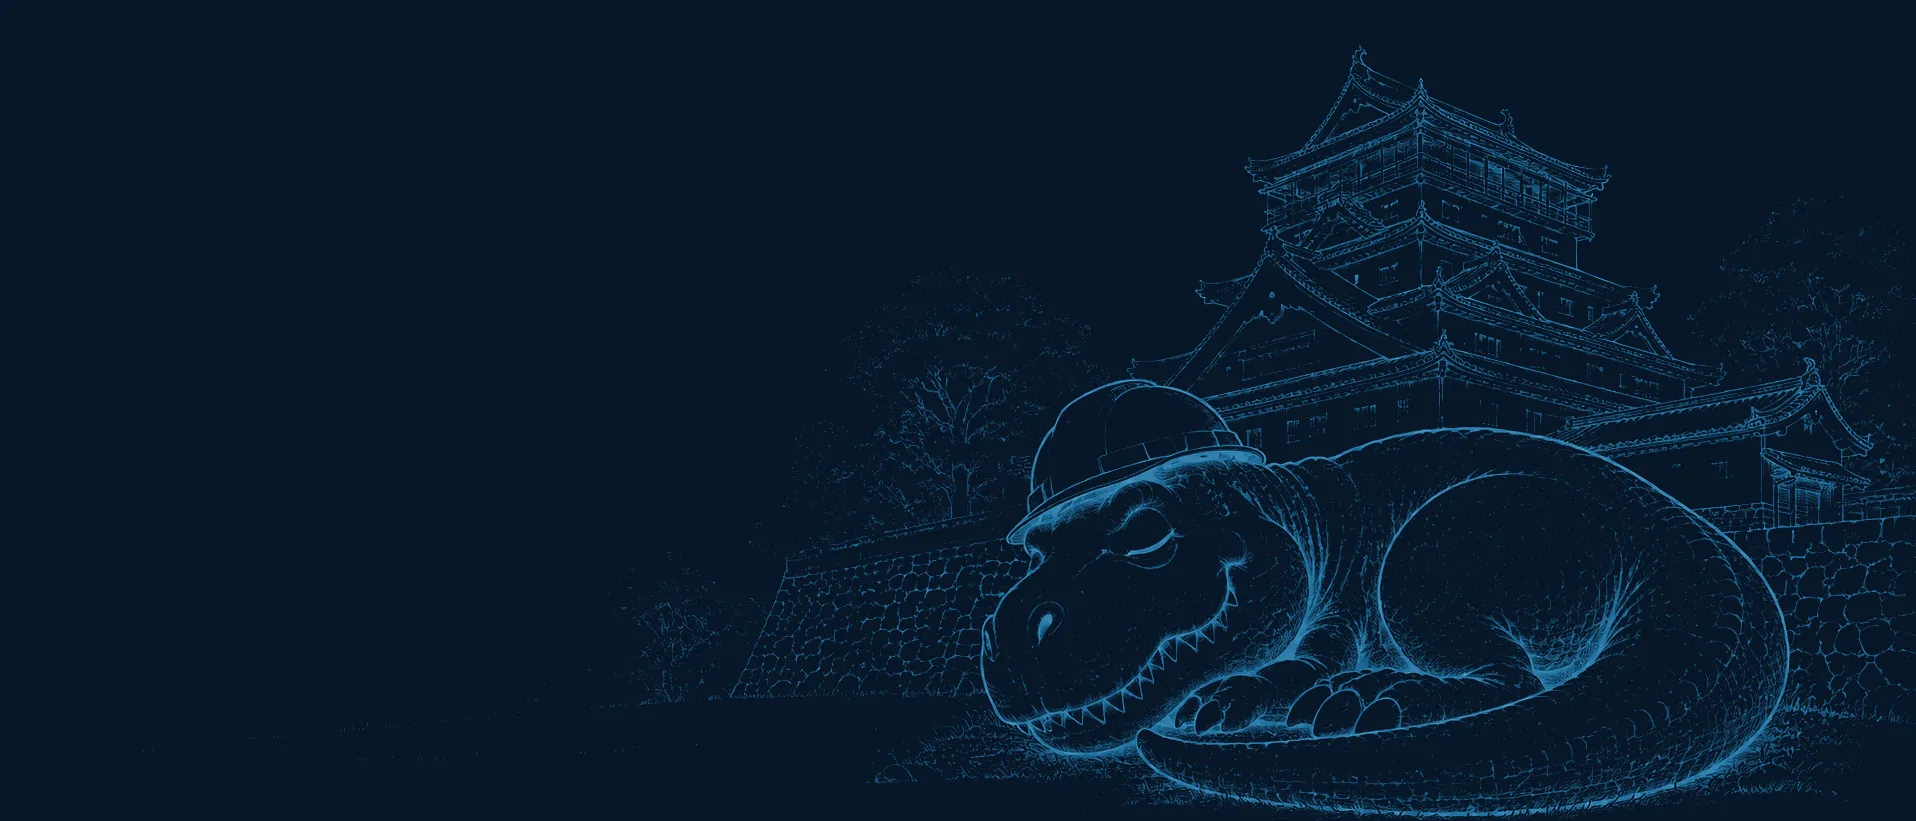
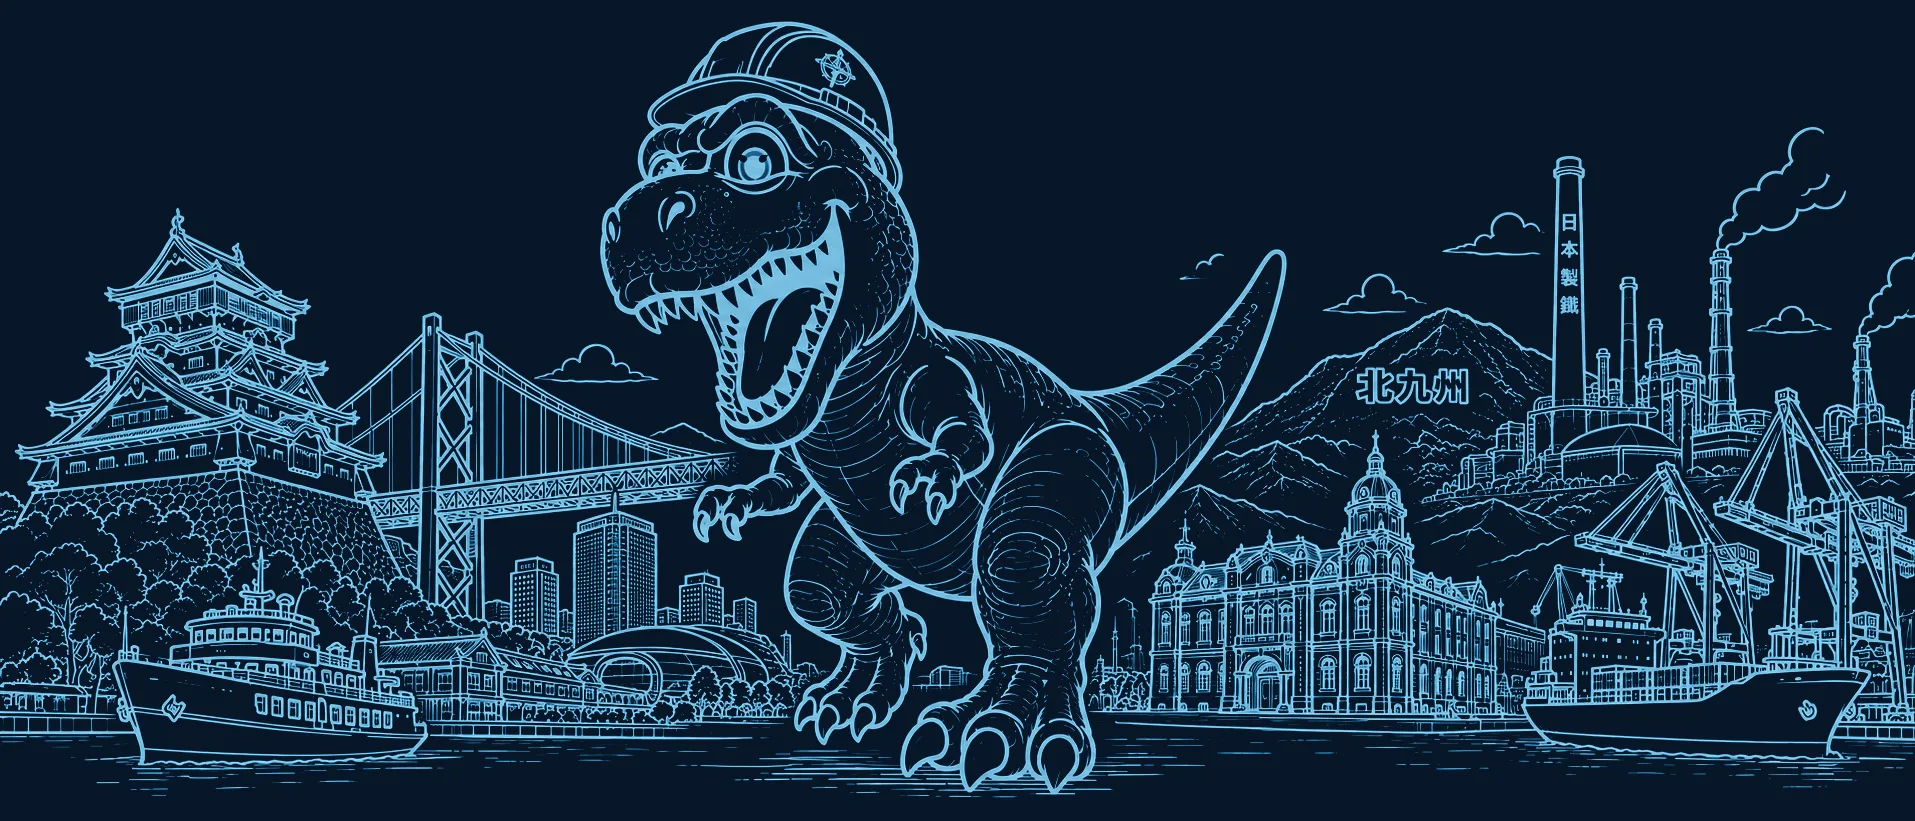
お問い合わせヒーローを新画像に差し替え・見切れ防止のcontain配置を追加
- SubHeroに bgFit="contain" オプションを追加(全体表示・右寄せ、
  余白は同色の紺に自然に溶ける)
- heroBgに background-repeat:no-repeat を追加(タイル繰り返しを修正)
- 新画像を共通のデュオトーン加工で適用

Claude-Session: https://claude.ai/code/session_01GWny94VMMAQhumgKVy1F5g

diff --git a/app/components/SubpageShell.tsx b/app/components/SubpageShell.tsx
@@ -22,9 +22,9 @@ export function SubHeader({ active }: { active?: string }) {
   </header>;
 }
 
-export function SubHero({ en, ja, lead, bg, children }: { en:string; ja:ReactNode; lead:ReactNode; bg?:string; children?:ReactNode }) {
+export function SubHero({ en, ja, lead, bg, bgFit, children }: { en:string; ja:ReactNode; lead:ReactNode; bg?:string; bgFit?:"cover"|"contain"; children?:ReactNode }) {
   return <section className={styles.hero}>
-    {bg && <i className={styles.heroBg} style={{ backgroundImage: `url(${process.env.NEXT_PUBLIC_BASE_PATH || ""}${bg})` }} aria-hidden="true" />}
+    {bg && <i className={styles.heroBg} style={{ backgroundImage: `url(${process.env.NEXT_PUBLIC_BASE_PATH || ""}${bg})`, ...(bgFit === "contain" ? { backgroundSize: "contain", backgroundPosition: "center right" } : {}) }} aria-hidden="true" />}
     <div><p>{en}</p><h1>{ja}</h1><span>{lead}</span></div><b aria-hidden="true">T-REX</b>{children}</section>;
 }
 

diff --git a/app/components/subpage.module.css b/app/components/subpage.module.css
@@ -1,3 +1,3 @@
 .header{position:sticky;z-index:50;top:0;height:82px;padding:0 clamp(20px,4vw,62px);display:flex;align-items:center;gap:36px;border-bottom:1px solid rgba(151,180,201,.2);background:rgba(2,9,20,.94);backdrop-filter:blur(14px);color:#f4f6f7}.brand{display:flex;align-items:center;gap:12px;min-width:190px}.brand span{display:grid;line-height:1}.brand strong{font-size:18px;letter-spacing:.08em}.brand small{margin-top:7px;color:#91a5b8;font-size:8px;letter-spacing:.22em}.header nav{margin-left:auto;display:flex;gap:clamp(16px,2.2vw,34px);font-size:13px;font-weight:700}.header nav a{position:relative;padding:31px 0}.header nav a:after{content:"";position:absolute;left:0;right:100%;bottom:21px;height:1px;background:#2bc9f4;transition:.25s}.header nav a:hover:after,.header nav .active:after{right:0}.cta{padding:13px 22px;border-radius:999px;background:#f4f6f7;color:#03101f;font-size:13px;font-weight:800}.hero{position:relative;isolation:isolate;min-height:460px;padding:128px clamp(22px,7vw,110px) 84px;display:flex;align-items:flex-end;overflow:hidden;color:#f4f6f7;background:radial-gradient(circle at 80% 10%,rgba(0,174,234,.32),transparent 46%),radial-gradient(circle at 8% 100%,rgba(0,122,192,.22),transparent 42%),linear-gradient(180deg,rgba(2,10,22,.84),rgba(2,8,18,.95)),url('/hero-blue-particles.webp') center 30%/cover no-repeat,#020812}.hero::before{content:"";position:absolute;inset:0;z-index:1;pointer-events:none;background:repeating-linear-gradient(0deg,rgba(127,166,194,.075) 0 1px,transparent 1px 44px),repeating-linear-gradient(90deg,rgba(127,166,194,.075) 0 1px,transparent 1px 44px),linear-gradient(115deg,transparent 0 54%,rgba(0,174,234,.16) 54.2% 54.5%,transparent 54.7%),linear-gradient(115deg,transparent 0 71%,rgba(255,255,255,.11) 71.2% 71.4%,transparent 71.6%);mask-image:linear-gradient(180deg,#000 58%,rgba(0,0,0,.25));-webkit-mask-image:linear-gradient(180deg,#000 58%,rgba(0,0,0,.25))}.hero::after{content:"";position:absolute;inset:auto 0 0;z-index:1;height:2px;background:linear-gradient(90deg,#00aeea,#68dcff 30%,rgba(255,138,36,.9) 56%,transparent 88%)}.hero>div{position:relative;z-index:2}.hero p{display:flex;align-items:center;gap:10px;margin:0 0 18px;color:#42d1f7;font-size:11px;font-weight:800;letter-spacing:.26em}.hero p::before{content:"";width:26px;height:1px;background:currentColor;box-shadow:0 0 10px rgba(0,174,234,.8)}.hero h1{margin:0;font-size:clamp(50px,7.2vw,104px);line-height:1.02;letter-spacing:-.045em;text-shadow:0 8px 44px rgba(0,0,0,.6),0 0 60px rgba(0,174,234,.18)}.hero span{display:block;max-width:640px;margin-top:22px;color:#c3d1db;line-height:2}.hero>b{position:absolute;right:-2vw;bottom:-3vw;z-index:1;color:transparent;-webkit-text-stroke:1px rgba(95,205,238,.28);font-size:clamp(120px,23vw,340px);line-height:.8;letter-spacing:-.08em;filter:drop-shadow(0 0 30px rgba(0,174,234,.2))}.section{padding:clamp(76px,9vw,138px) clamp(22px,6vw,92px);color:#edf3f6;background:#03101f}.light{color:#071420;background:#edf0ef}.heading p{margin:0 0 12px;color:#28c8f3;font-size:11px;font-weight:800;letter-spacing:.2em}.heading h2{margin:0;font-size:clamp(34px,5vw,68px);line-height:1.12}.heading span{display:block;margin-top:18px;color:#8295a5;line-height:1.9}.grid{margin-top:52px;display:grid;grid-template-columns:repeat(2,minmax(0,1fr));gap:1px;background:rgba(139,174,199,.3);border:1px solid rgba(139,174,199,.3)}.card{min-height:280px;padding:34px;background:#08223a}.card small{color:#43cef4;font-weight:800;letter-spacing:.12em}.card h3{margin:18px 0 12px;font-size:clamp(22px,2.4vw,34px)}.card p{margin:0;color:#aebec9;line-height:1.95}.button{display:inline-flex;margin-top:30px;padding:15px 24px;border:1px solid #45c9ee;color:#45c9ee;font-weight:800}.footer{padding:38px clamp(22px,5vw,76px);display:grid;grid-template-columns:auto 1fr auto;align-items:center;gap:32px;border-top:1px solid rgba(151,180,201,.2);background:#020812;color:#f4f6f7}.footer>div{display:flex;justify-content:center;flex-wrap:wrap;gap:20px;color:#9baab5;font-size:12px}.footer small{color:#70818e;font-size:10px}@media(max-width:1050px){.header nav{display:none}}@media(max-width:720px){.header{height:68px;padding:0 16px}.brand{min-width:auto}.brand span{display:none}.cta{padding:11px 15px;font-size:11px}.hero{min-height:300px;padding:64px 20px 46px}.hero p{margin-bottom:12px;font-size:10px;letter-spacing:.2em}.hero h1{font-size:clamp(34px,10.5vw,44px);letter-spacing:-.03em}.hero span{margin-top:16px;font-size:14px;line-height:1.85}.hero>b{font-size:clamp(88px,27vw,124px);right:-5vw;bottom:-2vw}.grid{grid-template-columns:1fr}.footer{grid-template-columns:1fr;text-align:center}.footer .brand{justify-self:center}.footer>div{order:3}.footer small{order:2}}
 
-.heroBg{position:absolute;inset:0;z-index:0;background-size:cover;background-position:center;font-style:normal}.heroBg::after{content:"";position:absolute;inset:0;background:linear-gradient(180deg,rgba(2,10,22,.5),rgba(2,8,18,.86))}
+.heroBg{position:absolute;inset:0;z-index:0;background-size:cover;background-position:center;background-repeat:no-repeat;font-style:normal}.heroBg::after{content:"";position:absolute;inset:0;background:linear-gradient(180deg,rgba(2,10,22,.5),rgba(2,8,18,.86))}

diff --git a/app/contact/page.tsx b/app/contact/page.tsx
@@ -1,2 +1,2 @@
 "use client";import {FormEvent} from "react";import Image from "next/image";import {SubFooter,SubHeader,SubHero,styles} from "../components/SubpageShell";import s from "./contact.module.css";
-export default function Page(){const submit=(e:FormEvent<HTMLFormElement>)=>{e.preventDefault();const d=new FormData(e.currentTarget);const subject=encodeURIComponent(`Webサイトからのお問い合わせ：${d.get("subject")||"ご相談"}`);const body=encodeURIComponent([`お名前：${d.get("name")||""}`,`会社名：${d.get("company")||""}`,`電話番号：${d.get("phone")||""}`,`メール：${d.get("email")||""}`,"",String(d.get("message")||"")].join("\n"));location.href=`mailto:[email redacted]?subject=${subject}&body=${body}`};return <><SubHeader active="/contact"/><main><SubHero en="CONTACT / GET IN TOUCH" ja="お問い合わせ" lead="修理・施工・出張対応など、現場のことならお気軽にご相談ください。" bg="/contact-hero-bg.webp"/><section className={styles.section}><div className={s.layout}><aside><p>DIRECT CONTACT</p><h2>お急ぎの方は<br/>お電話ください。</h2><a href="tel:[phone redacted]"><Image src="/icons/phone.svg" alt="" width={32} height={32}/><span><small>営業時間 9:00〜18:00</small><strong>[phone redacted]</strong></span></a><a href="mailto:[email redacted]"><Image src="/icons/mail.svg" alt="" width={28} height={28}/>[email redacted]</a></aside><form onSubmit={submit}><label>お名前 <b>必須</b><input name="name" required/></label><label>会社名<input name="company"/></label><label>電話番号<input name="phone" type="tel"/></label><label>メールアドレス <b>必須</b><input name="email" type="email" required/></label><label>ご相談内容<select name="subject"><option>修理・施工のご相談</option><option>出張対応について</option><option>持込修理について</option><option>採用について</option><option>その他</option></select></label><label>お問い合わせ内容 <b>必須</b><textarea name="message" rows={7} required/></label><button>メール内容を確認する →</button></form></div></section><section className={styles.section}><div className={styles.heading}><p>FAQ</p><h2>よくあるご質問</h2></div><dl className={s.faq}><div><dt>出張対応エリアはどこまでですか?</dt><dd>福岡県・山口県を中心に対応しています。その他の地域も可能な限り対応しますので、まずはお気軽にご相談ください。</dd></div><div><dt>車両や機械の持込修理はできますか?</dt><dd>可能です。持込修理・出張修理のどちらにも対応しています。状態やご都合に合わせて最適な方法をご提案します。</dd></div><div><dt>見積りは無料ですか?</dt><dd>はい、お見積りは無料です。お電話またはお問い合わせフォームから、車両・機械の状態と症状をお知らせください。</dd></div></dl></section></main><SubFooter/></>}
+export default function Page(){const submit=(e:FormEvent<HTMLFormElement>)=>{e.preventDefault();const d=new FormData(e.currentTarget);const subject=encodeURIComponent(`Webサイトからのお問い合わせ：${d.get("subject")||"ご相談"}`);const body=encodeURIComponent([`お名前：${d.get("name")||""}`,`会社名：${d.get("company")||""}`,`電話番号：${d.get("phone")||""}`,`メール：${d.get("email")||""}`,"",String(d.get("message")||"")].join("\n"));location.href=`mailto:[email redacted]?subject=${subject}&body=${body}`};return <><SubHeader active="/contact"/><main><SubHero en="CONTACT / GET IN TOUCH" ja="お問い合わせ" lead="修理・施工・出張対応など、現場のことならお気軽にご相談ください。" bg="/contact-hero-bg.webp" bgFit="contain"/><section className={styles.section}><div className={s.layout}><aside><p>DIRECT CONTACT</p><h2>お急ぎの方は<br/>お電話ください。</h2><a href="tel:[phone redacted]"><Image src="/icons/phone.svg" alt="" width={32} height={32}/><span><small>営業時間 9:00〜18:00</small><strong>[phone redacted]</strong></span></a><a href="mailto:[email redacted]"><Image src="/icons/mail.svg" alt="" width={28} height={28}/>[email redacted]</a></aside><form onSubmit={submit}><label>お名前 <b>必須</b><input name="name" required/></label><label>会社名<input name="company"/></label><label>電話番号<input name="phone" type="tel"/></label><label>メールアドレス <b>必須</b><input name="email" type="email" required/></label><label>ご相談内容<select name="subject"><option>修理・施工のご相談</option><option>出張対応について</option><option>持込修理について</option><option>採用について</option><option>その他</option></select></label><label>お問い合わせ内容 <b>必須</b><textarea name="message" rows={7} required/></label><button>メール内容を確認する →</button></form></div></section><section className={styles.section}><div className={styles.heading}><p>FAQ</p><h2>よくあるご質問</h2></div><dl className={s.faq}><div><dt>出張対応エリアはどこまでですか?</dt><dd>福岡県・山口県を中心に対応しています。その他の地域も可能な限り対応しますので、まずはお気軽にご相談ください。</dd></div><div><dt>車両や機械の持込修理はできますか?</dt><dd>可能です。持込修理・出張修理のどちらにも対応しています。状態やご都合に合わせて最適な方法をご提案します。</dd></div><div><dt>見積りは無料ですか?</dt><dd>はい、お見積りは無料です。お電話またはお問い合わせフォームから、車両・機械の状態と症状をお知らせください。</dd></div></dl></section></main><SubFooter/></>}